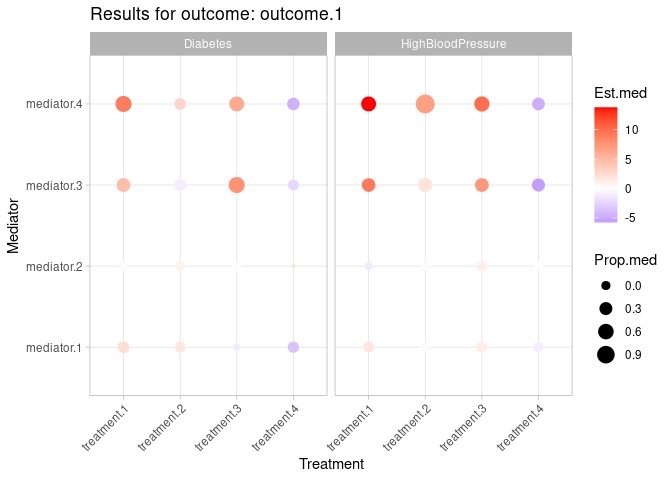
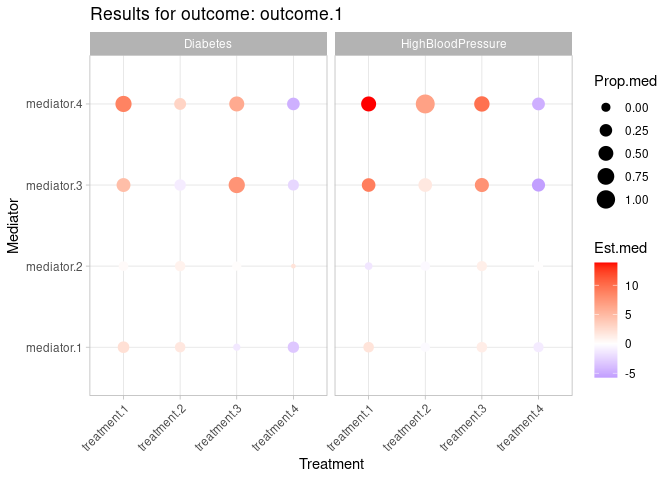
graphs in one plot

Changed region(s): [[0.875, 0.1562, 1.0, 0.4688], [0.875, 0.5, 1.0, 0.8125]]

diff --git a/README.md b/README.md
@@ -443,18 +443,14 @@ Blood Pressure).
 graph_outcome1_nosig.split <- graph_htmed(
     mediation.form = format_results.split
   , outcome = 'outcome.1'
+  , size_node = 0.65
   , split = 'split')
 #> pval.column argument not provided. Results without filtering data will be displayed
-graph_outcome1_nosig.split
-#> $Diabetes
+
+library(patchwork)
+graph_outcome1_nosig.split$Diabetes + graph_outcome1_nosig.split$HighBloodPressure
 ```
 
 <img src="man/figures/README-visualizing.split-2-1.png" width="100%" />
-
-    #> 
-    #> $HighBloodPressure
-
-<img src="man/figures/README-visualizing.split-2-2.png" width="100%" />
-
 The same occurs when applying `graph_htmed()` ; two graph are generated,
 depending on the condition studied.
